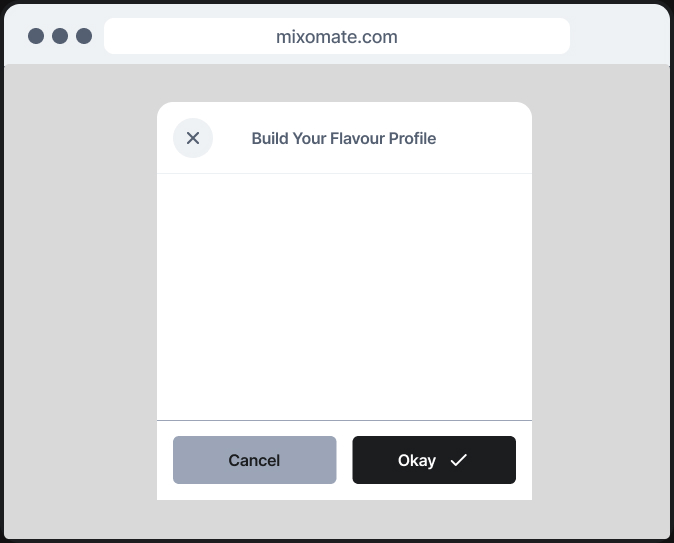
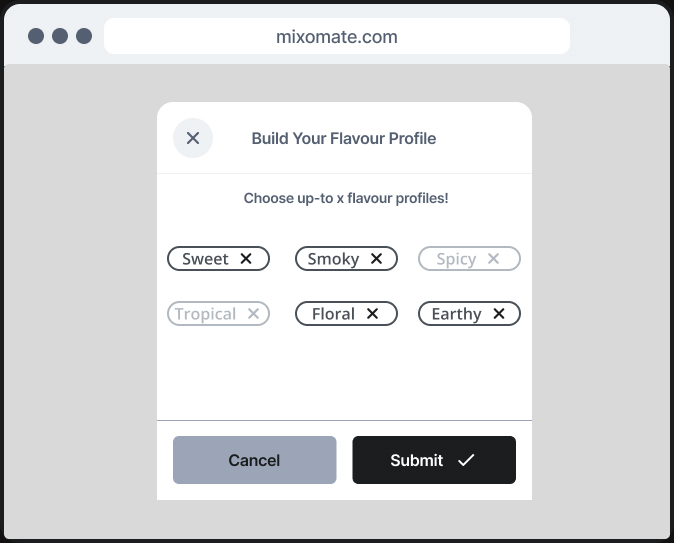
Complete design and add description to MD

diff --git a/apps/mixo-mate-frontend/docs/figma/flavour-profile/flavourProfile.md b/apps/mixo-mate-frontend/docs/figma/flavour-profile/flavourProfile.md
@@ -1,4 +1,4 @@
 ## Flavour Profile Design
 ![flavourProfile](./flavourProfile.jpg)
 
-A simple form where users can select and remove various flavour profiles.
+A simple form where users can select and remove various flavour profiles. The flavour profiles are chip components which are selected by clicking on them - they are initially dimmed. Upon selection they can be removed via the x icon. For example Tropical and spicy are dimmed as they were not chosen.
